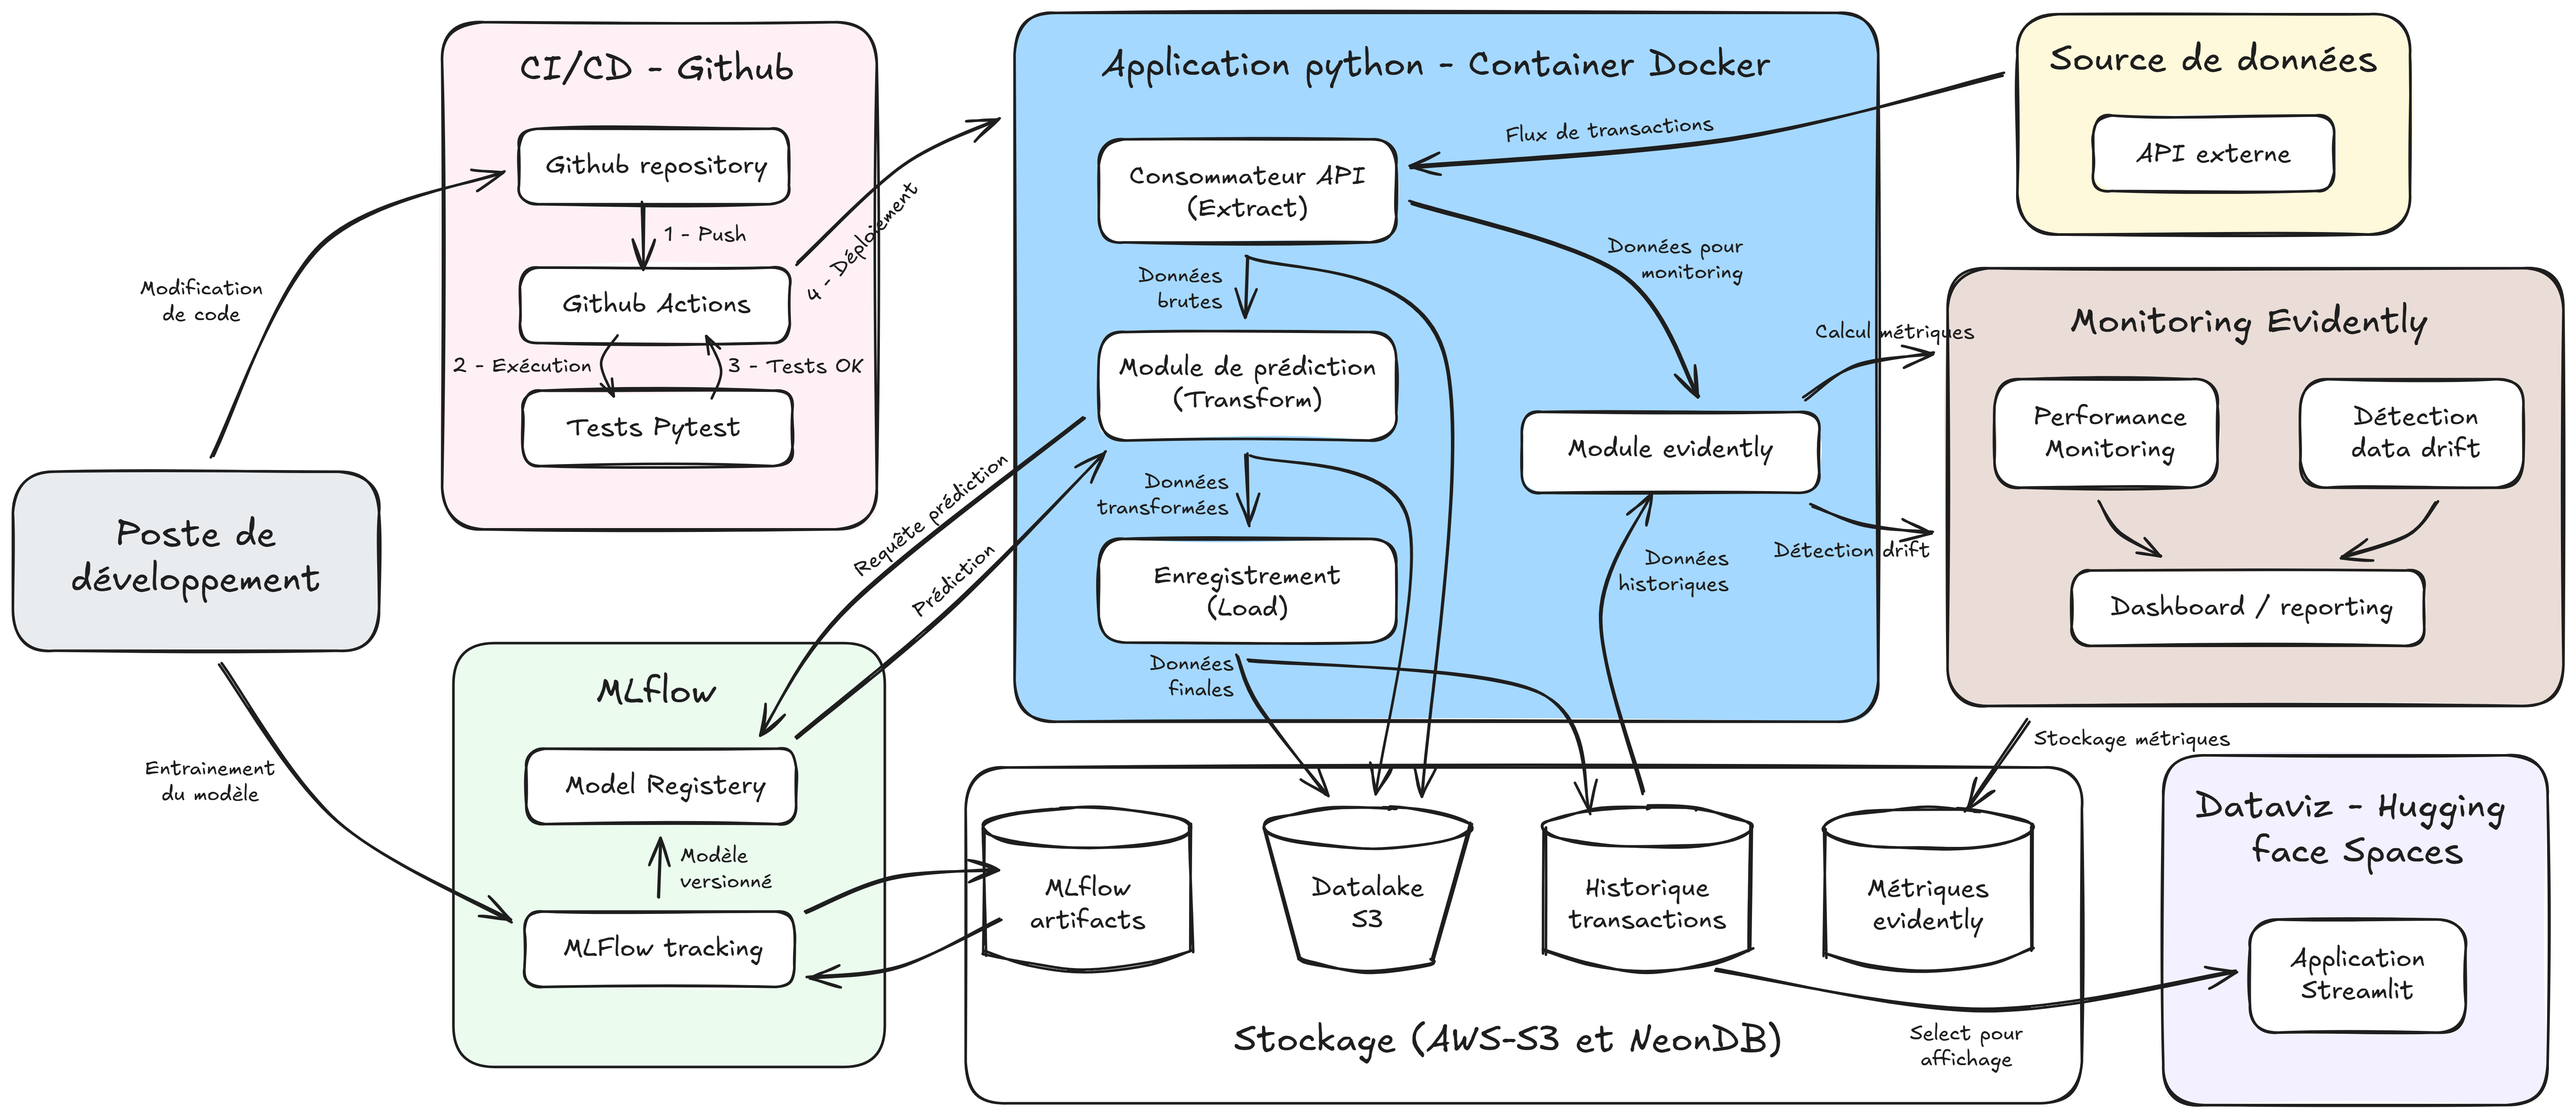
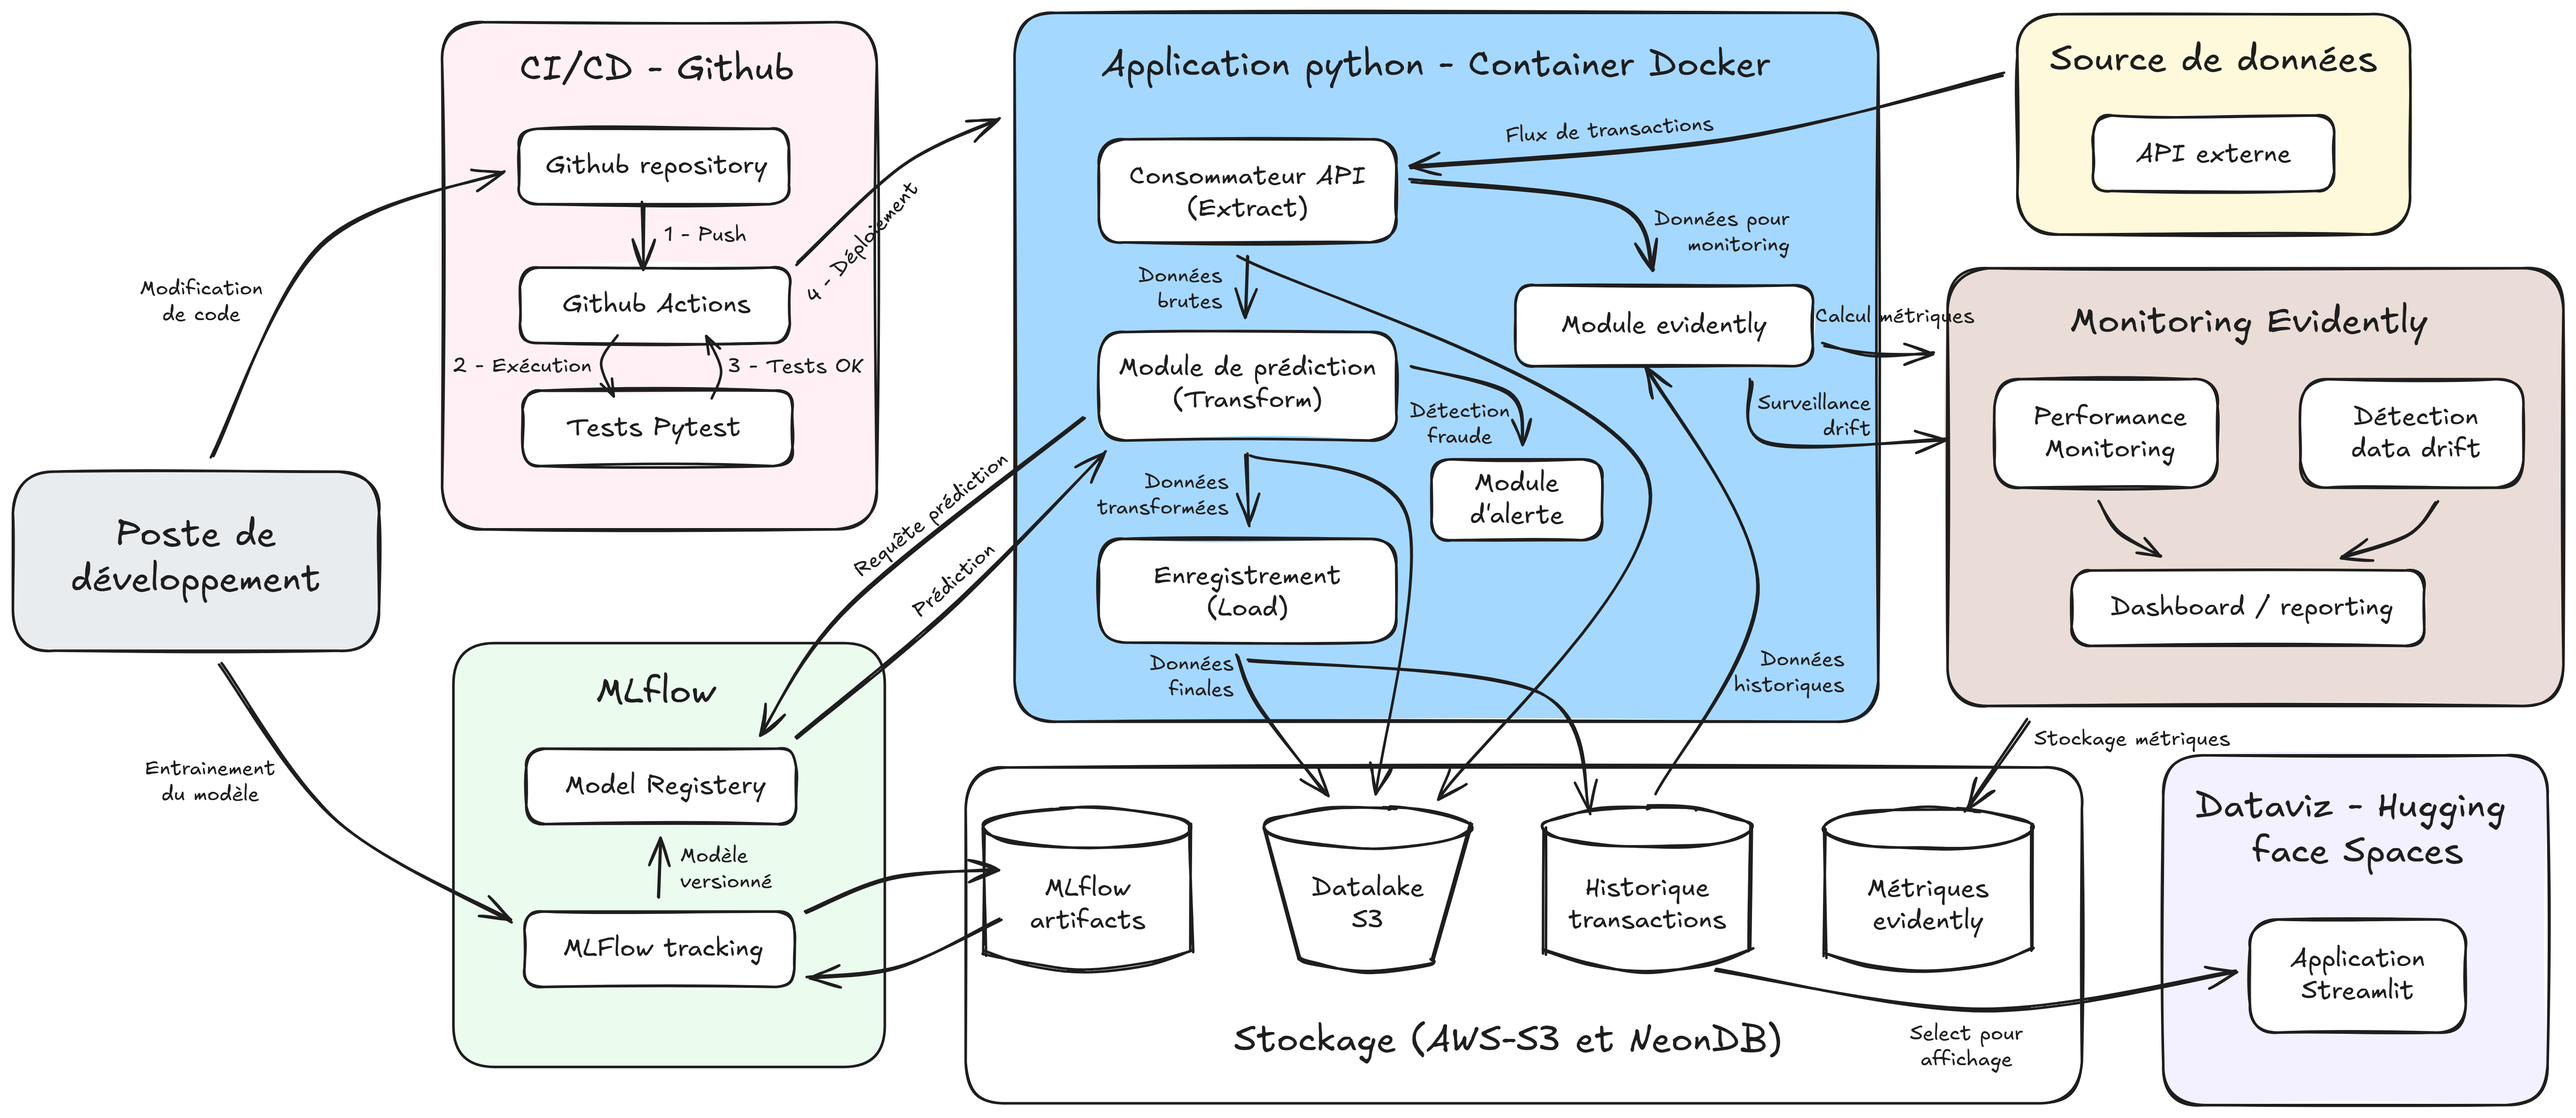
Update documentation

diff --git a/README.md b/README.md
@@ -199,7 +199,9 @@ Les valeurs des variables d'envrionnement à renseigner dans les secrets du hugg
 
 ### 5. Visualisation des données
 Une fois le container streamlit déployé, l'application de visualisation des données est disponible sur https://VOTRE_USERNAME-VOTRE_SPACE_NAME.hf.space  défini lors de l'installation du point 4.
-Par défaut l'application affiche les données de la veille. Pour changer la sélection de dates, choisir une nouvelle plage dans le calendrier et cliquer sur "raffraichir les données".
+Par défaut l'application affiche les données de la veille. Pour changer la sélection de dates, choisir une nouvelle plage dans le calendrier et cliquer sur "Appliquer les filtres".
+
+![Rapport de fraudes](data/rapport_fraudes.png)
 
 ### 6. Création et déploiement de l'application streamlit pour visualisation des données (sur Huggigng Face Spaces)
 Le détail de l'installation est documenté dans le [fichier README](API/README.md) du répertoire API.
